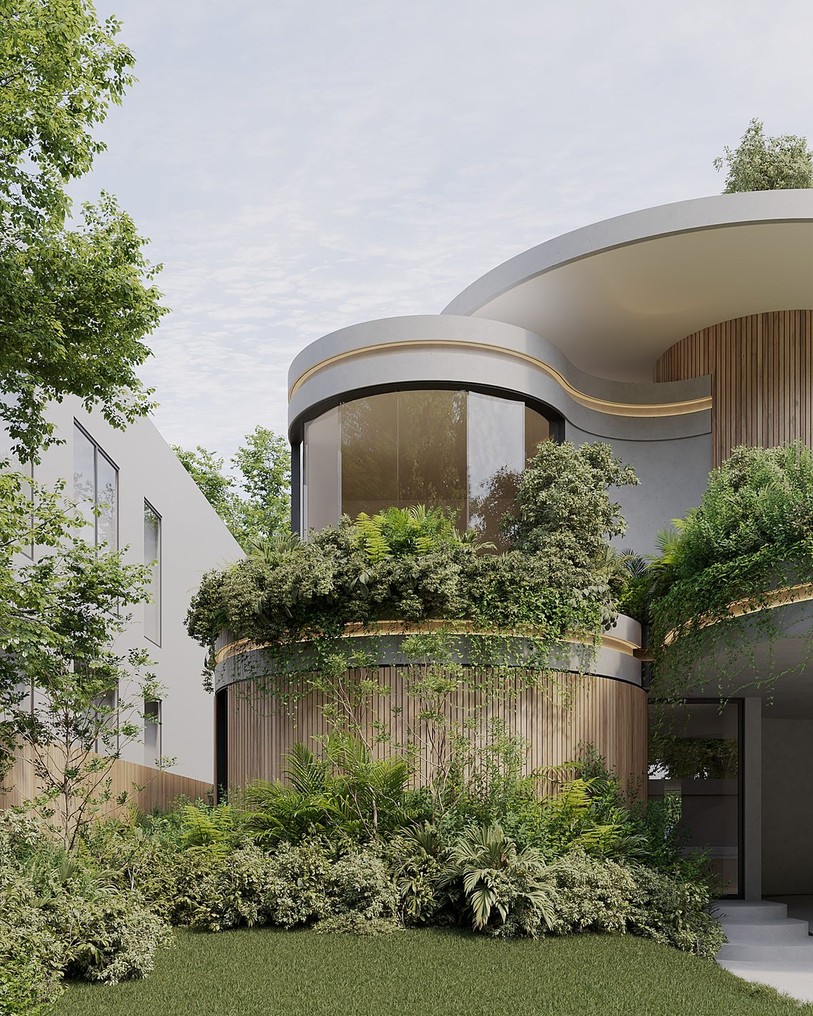
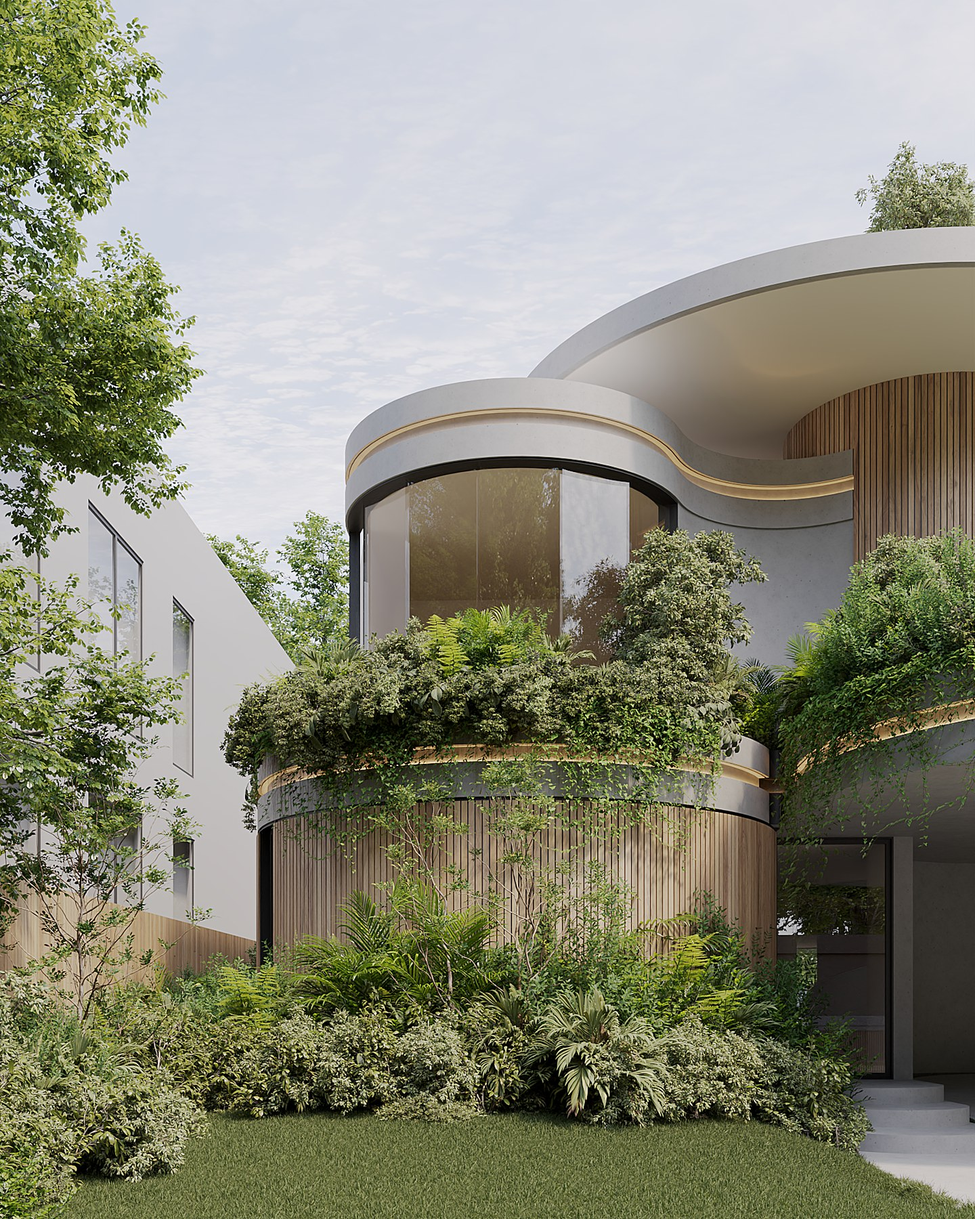
Add Española (Under Construction): homepage tile replaces Nautilus; Current Projects carousel after 211; render→reality construction photo; updated floor plans; status Under Construction site-wide

diff --git a/work.html b/work.html
@@ -90,7 +90,7 @@
  <div class="section-num">★ Now, On the Boards &amp; On Site</div>
  <h2 class="h2 serif">Current projects.</h2>
  </div>
- <p class="lede" style="max-width:44ch">Three residences moving through the studio right now: drawn, detailed and built under one roof.</p>
+ <p class="lede" style="max-width:44ch">Four residences moving through the studio right now: drawn, detailed and built under one roof.</p>
  </div>
  </div>
  <div class="cpx" data-cpx>
@@ -104,6 +104,18 @@
  <span class="cpx__status cpx__status--live">Under Construction</span>
  <span class="cpx__name">211</span>
  <span class="cpx__geo">Buena Vista, Miami</span>
+ <span class="cpx__go">View project →</span>
+ </div>
+ </a>
+ <a class="cpx__card" href="work/espanola-house.html">
+ <div class="cpx__imgs">
+ <img class="cpx__img is-active" src="img/showcase/espanola-house-1.jpg?v=20260720b" alt="Española — Coconut Grove, Miami — rendering" loading="lazy">
+ <img class="cpx__img" data-src="img/showcase/espanola-house-2.jpg?v=20260720b" alt="Española — foundation on site, Coconut Grove — under construction">
+ </div>
+ <div class="cpx__cap">
+ <span class="cpx__status cpx__status--live">Under Construction</span>
+ <span class="cpx__name">Española</span>
+ <span class="cpx__geo">Coconut Grove, Miami</span>
  <span class="cpx__go">View project →</span>
  </div>
  </a>
@@ -326,7 +338,7 @@
  <img src="img/projects/espanola-house/card.jpg" alt="Española" loading="lazy">
  <img class="live-fr" data-src="img/projects/espanola-house/04.jpg" alt="" loading="lazy">
  <img class="live-fr" data-src="img/projects/espanola-house/grounds/g-01.jpg" alt="" loading="lazy">
- <div class="proj__cap"><span class="name">Española <span class="status-tag">Design Development</span></span><span class="geo"></span></div>
+ <div class="proj__cap"><span class="name">Española <span class="status-tag status-tag--live">Under Construction</span></span><span class="geo"></span></div>
  </a>
  <a class="proj regular" href="work/hannaford.html" data-tags="homes" data-live>
  <img src="img/projects/hannaford/card.jpg" alt="Hannaford" loading="lazy">

diff --git a/work/espanola-house.html b/work/espanola-house.html
@@ -182,7 +182,7 @@
  <p class="cs-concept">A residence that quietly references the Hispanic-Caribbean residential tradition without imitating it. Arches and breeze blocks are substituted with continuous curved openings; clay tile is replaced by warm-toned plaster.</p>
  <div class="cs-meta">
  <div class="cs-meta__row"><span>Type</span><span>Residential</span></div>
- <div class="cs-meta__row"><span>Status</span><span>Design Development</span></div>
+ <div class="cs-meta__row"><span>Status</span><span>Under Construction</span></div>
  <div class="cs-meta__row"><span>Discipline</span><span>Design · Visualization</span></div>
  <div class="cs-meta__row"><span>Drawings</span><span>4 sheets</span></div>
  <div class="cs-meta__row"><span>Documentation</span><span>6 renderings</span></div>
@@ -193,7 +193,7 @@
 
 <section class="cs-split">
  <figure class="cs-plan">
- <img src="../img/projects/espanola-house/plan-01.jpg?v=20260619" alt="Española — Floor Plan">
+ <img src="../img/projects/espanola-house/plan-01.jpg?v=20260720" alt="Española — Floor Plan">
  <figcaption>Floor Plan · Level 01</figcaption>
  </figure>
  <figure class="cs-photo">
@@ -226,7 +226,7 @@
  </div>
  <div class="plan-grid">
  <figure class="plan-card">
- <img src="../img/projects/espanola-house/plan-02.jpg?v=20260619" alt="Española — Floor Plan · Level 02" loading="lazy">
+ <img src="../img/projects/espanola-house/plan-02.jpg?v=20260720" alt="Española — Floor Plan · Level 02" loading="lazy">
  <figcaption>Floor Plan · Level 02</figcaption>
  </figure>
  <figure class="plan-card">

diff --git a/index.html b/index.html
@@ -517,11 +517,11 @@
  <img class="live-fr" data-src="img/projects/tigertail-ct/int-living.jpg" alt="" loading="lazy">
  <div class="proj__cap"><span class="name">Tigertail CT <span class="status-tag status-tag--live">Under Construction</span></span><span class="geo">Miami</span></div>
  </a>
- <a class="proj regular" href="work/nautilus.html" data-live>
- <img src="img/projects/nautilius/card.jpg" alt="Nautilus — Miami Beach" loading="lazy">
- <img class="live-fr" data-src="img/projects/nautilius/06.jpg" alt="" loading="lazy">
- <img class="live-fr" data-src="img/projects/nautilius/grounds/g-01.jpg" alt="" loading="lazy">
- <div class="proj__cap"><span class="name">Nautilus <span class="status-tag">Design Development</span></span><span class="geo">Miami Beach</span></div>
+ <a class="proj regular" href="work/espanola-house.html" data-live>
+ <img src="img/projects/espanola-house/card.jpg" alt="Española — Coconut Grove, Miami" loading="lazy">
+ <img class="live-fr" data-src="img/projects/espanola-house/02.jpg" alt="" loading="lazy">
+ <img class="live-fr" data-src="img/projects/espanola-house/constr-01.jpg" alt="" loading="lazy">
+ <div class="proj__cap"><span class="name">Española <span class="status-tag status-tag--live">Under Construction</span></span><span class="geo">Miami</span></div>
  </a>
  <a class="proj regular" href="work/118-house.html" data-live>
  <img src="img/projects/118-house/card.jpg" alt="118 — completed residence at dusk, Medellín" loading="lazy">
